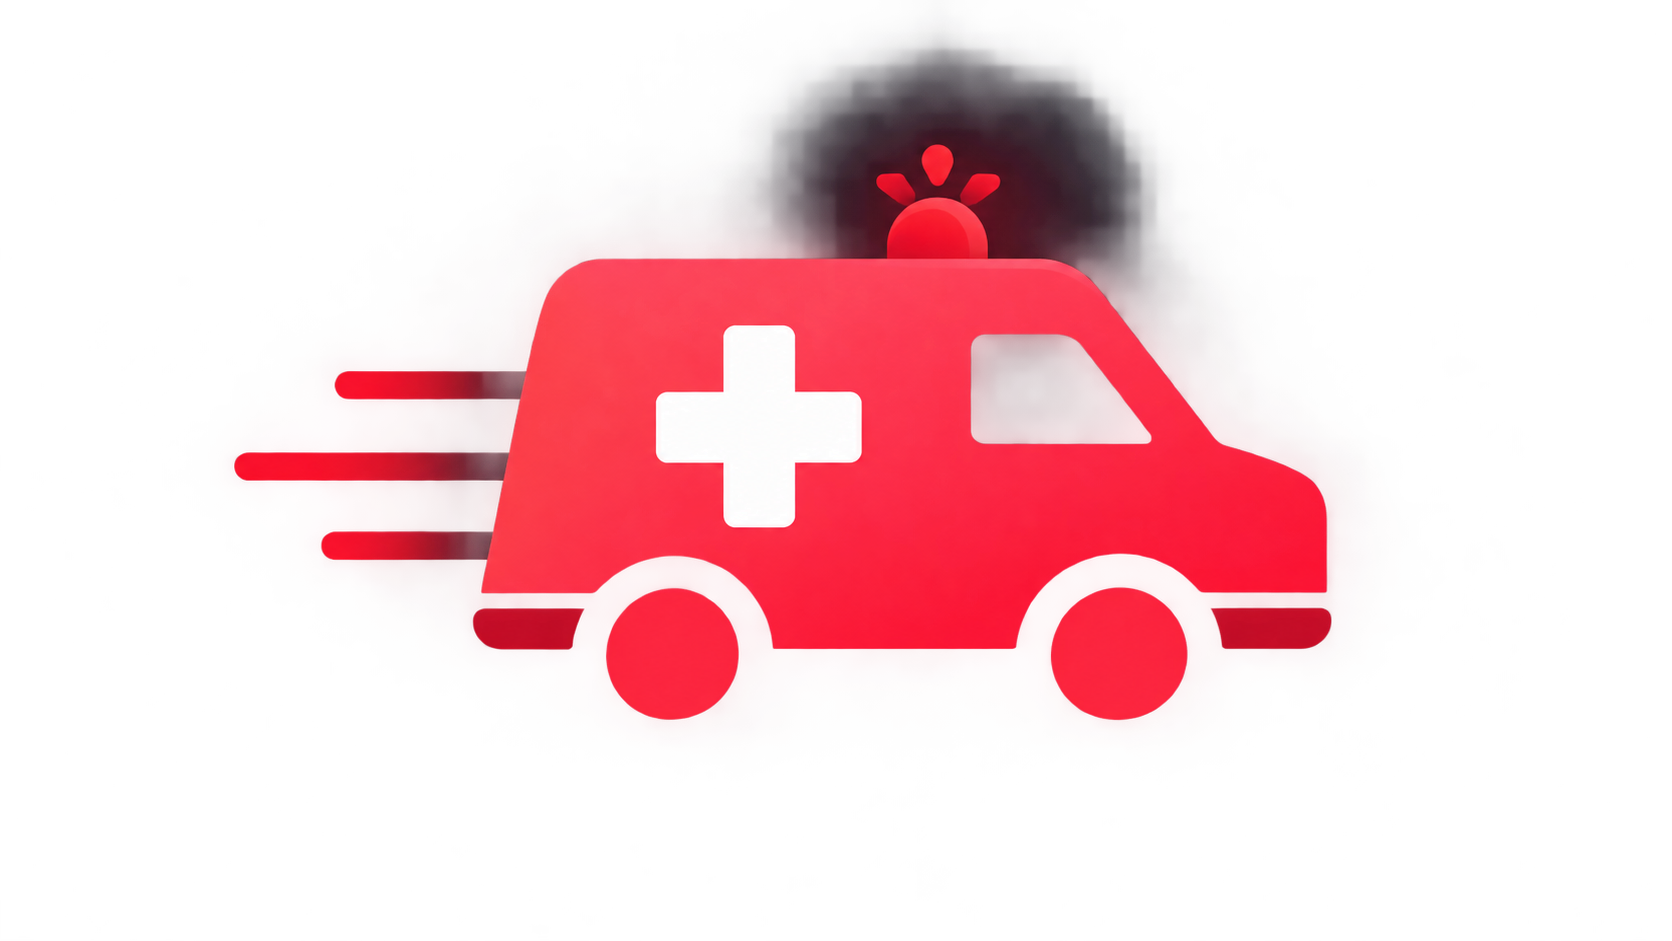
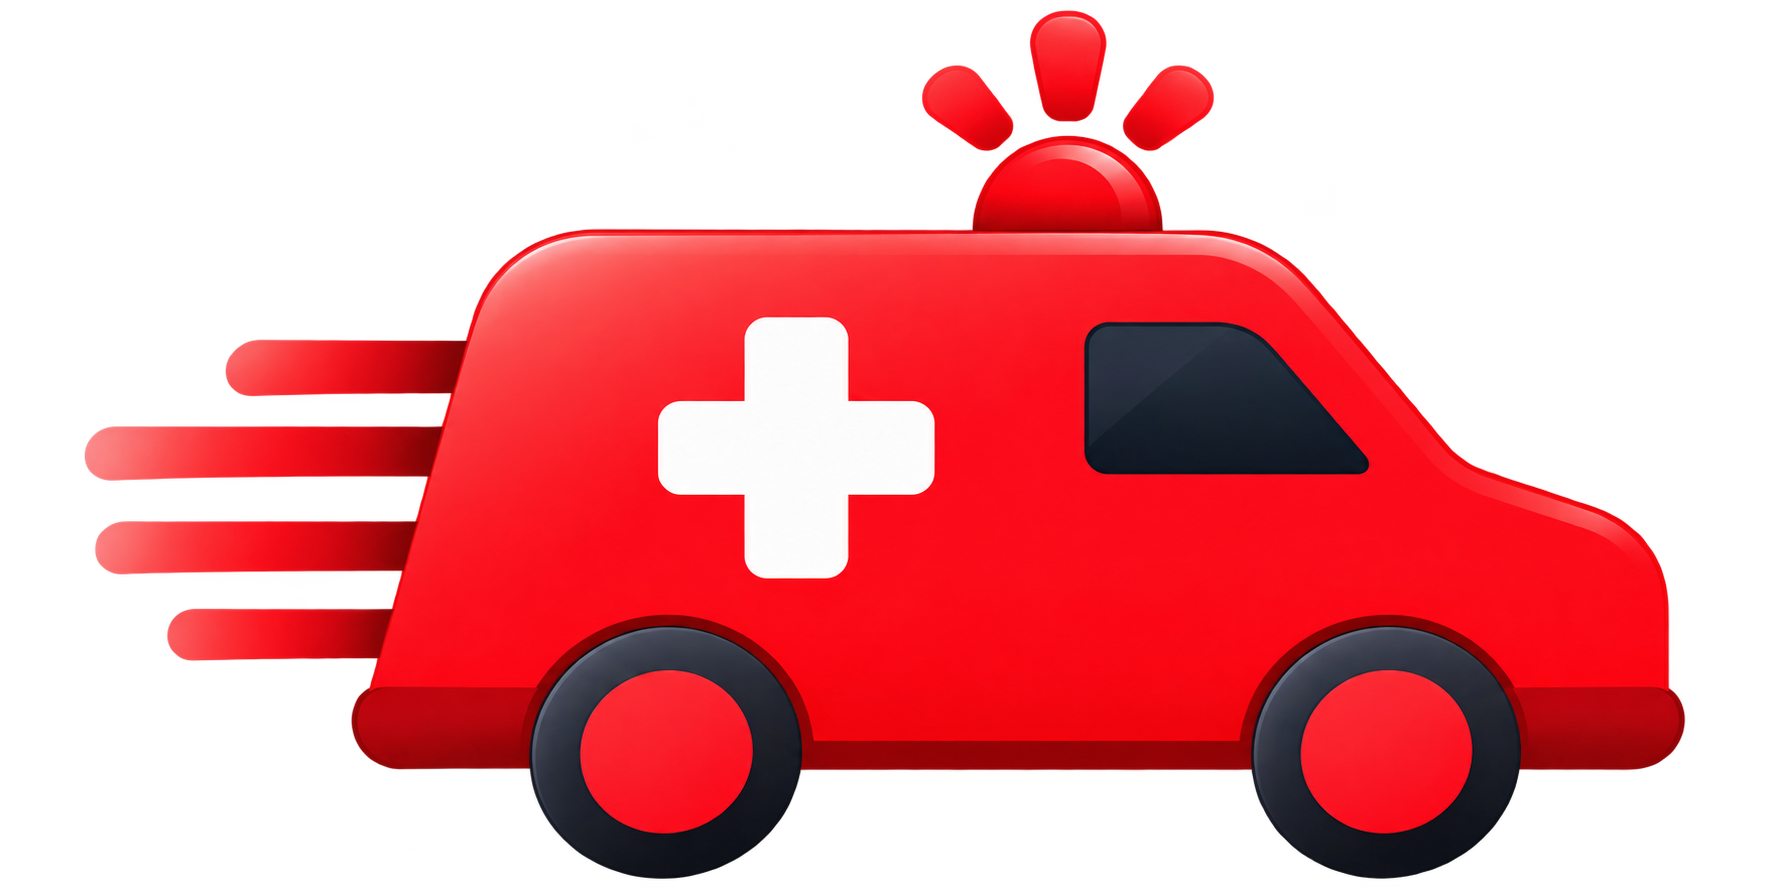
Fix light mode, translations, blood stepper and images

diff --git a/assets/js/ambulance.js b/assets/js/ambulance.js
@@ -66,9 +66,8 @@ townIn.addEventListener('change', () => {
     latEl.value = position[0];
     lngEl.value = position[1];
 
-    gpsLine.textContent = t('amb.gps_town', {
-        town: townIn.value,
-    });
+    // Replace {town} with the selected town name.
+    gpsLine.textContent = `Using ${townIn.value}`;
 });
 
 form.addEventListener('submit', (event) => {
@@ -94,14 +93,25 @@ form.addEventListener('submit', (event) => {
     window.location.href = 'results.php?' + query;
 });
 
-
 const units = document.getElementById('units-input');
 const minus = document.getElementById('units-minus');
 const plus = document.getElementById('units-plus');
+const bloodSelect = form.querySelector('[name="blood"]');
 
-if (units && minus && plus) {
+if (units && minus && plus && bloodSelect) {
 
     function updateUnits(value) {
+        // No blood type selected means zero units.
+        if (!bloodSelect.value) {
+            units.value = 0;
+            units.disabled = true;
+            minus.disabled = true;
+            plus.disabled = true;
+            return;
+        }
+
+        units.disabled = false;
+
         const amount = Number.parseInt(value, 10);
         const safeAmount = Number.isFinite(amount) ? amount : 0;
 
@@ -121,6 +131,14 @@ if (units && minus && plus) {
 
     units.addEventListener('change', function() {
         updateUnits(units.value);
+    });
+
+    bloodSelect.addEventListener('change', function() {
+        if (!bloodSelect.value) {
+            updateUnits(0);
+        } else {
+            updateUnits(units.value);
+        }
     });
 
     updateUnits(units.value);

diff --git a/assets/css/style.css b/assets/css/style.css
@@ -2782,7 +2782,10 @@ body.dark .incoming--alarm {
     border-color: var(--blue);
 }
 
-*=========================================================BEDLINK — AMBULANCE CREW PAGE Additional styling for the ambulance hospital finder Uses existing BedLink CSS variables=========================================================*/
+
+/*=========================================================BEDLINK — AMBULANCE CREW PAGE Additional styling for the ambulance hospital finder Uses existing BedLink CSS variables=========================================================*/
+
+
 /* Main ambulance container */
 
 .amb {
@@ -3636,4 +3639,35 @@ body.dark .amb .gps {
         max-width: 100%;
         width: 260px;
     }
+}
+
+
+/* ==========================================================
+   AMBULANCE LIGHT-MODE CONTRAST FIXES
+   Appended overrides only — existing styles remain unchanged.
+   ========================================================== */
+
+
+/* Light mode: use dark purple text on the selected ward card. */
+
+body:not(.dark) .amb .amb-ward-chips label:has(input:checked) {
+    color: #32105F;
+}
+
+
+/* Light mode: make the GPS status / No GPS message easier to read. */
+
+body:not(.dark) .amb .gps {
+    color: #14532D;
+}
+
+
+/* Dark mode: retain the existing light text colours and contrast. */
+
+body.dark .amb .amb-ward-chips label:has(input:checked) {
+    color: #FFFFFF;
+}
+
+body.dark .amb .gps {
+    color: #10DDB5;
 }

diff --git a/ambulance/index.php b/ambulance/index.php
@@ -1,4 +1,3 @@
-
 <?php
 require_once __DIR__ . '/../includes/auth.php';
 // requireRole(['ambulance_crew', 'community_driver']);
@@ -15,13 +14,13 @@ require __DIR__ . '/../includes/header.php';
     <section class="amb-hero">
 
         <div class="amb-hero__content">
-            <h1>Find the best hospital</h1>
-            <p>Choose what your patient needs.</p>
+            <h1><?= t('amb.title') ?></h1>
+            <p><?= t('amb.subtitle') ?></p>
         </div>
 
         <img
             src="/bedlink/assets/img/ambulance-hero.png"
-            alt="BedLink emergency ambulance"
+            alt="<?= t('amb.hero_alt') ?>"
             class="amb-hero-image"
         >
 
@@ -33,14 +32,16 @@ require __DIR__ . '/../includes/header.php';
         <?= t('amb.gps_wait') ?>
     </p>
 
-    <label id="town-box" hidden>
-        <?= t('amb.town') ?>
+    <label for="town">
+    <?= t('amb.choose_town') ?>
+</label>
 
         <input
             id="town"
             type="text"
             list="towns"
             autocomplete="off"
+            placeholder="<?= t('amb.town') ?>"
         >
 
         <datalist id="towns"></datalist>
@@ -60,12 +61,7 @@ require __DIR__ . '/../includes/header.php';
             <legend><?= t('amb.ward') ?></legend>
 
             <label>
-                <input
-                    type="radio"
-                    name="ward"
-                    value="emergency"
-                    checked
-                >
+                <input type="radio" name="ward" value="emergency" checked>
 
                 <svg viewBox="0 0 24 24" aria-hidden="true">
                     <path d="M3 20V8h3v8h15v4H3Z"/>
@@ -77,11 +73,7 @@ require __DIR__ . '/../includes/header.php';
 
 
             <label>
-                <input
-                    type="radio"
-                    name="ward"
-                    value="maternity"
-                >
+                <input type="radio" name="ward" value="maternity">
 
                 <svg viewBox="0 0 24 24" aria-hidden="true">
                     <circle cx="12" cy="5" r="3"/>
@@ -95,11 +87,7 @@ require __DIR__ . '/../includes/header.php';
 
 
             <label>
-                <input
-                    type="radio"
-                    name="ward"
-                    value="icu"
-                >
+                <input type="radio" name="ward" value="icu">
 
                 <svg viewBox="0 0 24 24" aria-hidden="true">
                     <rect x="2" y="3" width="20" height="18" rx="2"/>
@@ -111,11 +99,7 @@ require __DIR__ . '/../includes/header.php';
 
 
             <label>
-                <input
-                    type="radio"
-                    name="ward"
-                    value="children"
-                >
+                <input type="radio" name="ward" value="children">
 
                 <svg viewBox="0 0 24 24" aria-hidden="true">
                     <circle cx="8" cy="7" r="3"/>
@@ -130,17 +114,13 @@ require __DIR__ . '/../includes/header.php';
         </fieldset>
 
 
-        <!-- SERVICES NEEDED -->
+        <!-- SERVICES NEEDED (ICU removed: it is only a ward) -->
         <fieldset class="chips amb-service-chips">
 
             <legend><?= t('amb.needs') ?></legend>
 
             <label>
-                <input
-                    type="checkbox"
-                    name="svc"
-                    value="ct_scan"
-                >
+                <input type="checkbox" name="svc" value="ct_scan">
 
                 <svg viewBox="0 0 24 24" aria-hidden="true">
                     <circle cx="12" cy="12" r="9"/>
@@ -153,11 +133,7 @@ require __DIR__ . '/../includes/header.php';
 
 
             <label>
-                <input
-                    type="checkbox"
-                    name="svc"
-                    value="trauma_surgery"
-                >
+                <input type="checkbox" name="svc" value="trauma_surgery">
 
                 <svg viewBox="0 0 24 24" aria-hidden="true">
                     <path d="M12 22s8-4 8-11V5l-8-3-8 3v6c0 7 8 11 8 11Z"/>
@@ -169,11 +145,7 @@ require __DIR__ . '/../includes/header.php';
 
 
             <label>
-                <input
-                    type="checkbox"
-                    name="svc"
-                    value="theatre"
-                >
+                <input type="checkbox" name="svc" value="theatre">
 
                 <svg viewBox="0 0 24 24" aria-hidden="true">
                     <path d="M3 21h18M5 17h14M7 17v4M17 17v4"/>
@@ -182,22 +154,6 @@ require __DIR__ . '/../includes/header.php';
                 </svg>
 
                 <span><?= t('svc.theatre') ?></span>
-            </label>
-
-
-            <label>
-                <input
-                    type="checkbox"
-                    name="svc"
-                    value="icu"
-                >
-
-                <svg viewBox="0 0 24 24" aria-hidden="true">
-                    <rect x="2" y="3" width="20" height="16" rx="2"/>
-                    <path d="M4 11h4l2-4 3 8 2-4h5M8 22h8M12 19v3"/>
-                </svg>
-
-                <span><?= t('svc.icu') ?></span>
             </label>
 
         </fieldset>
@@ -212,9 +168,9 @@ require __DIR__ . '/../includes/header.php';
 
                 <!-- BLOOD TYPE -->
                 <label>
-                    <?= t('amb.bloodty') ?>
+                    <?= t('amb.blood_type') ?>
 
-                    <select name="blood">
+                    <select name="blood" id="blood-type">
 
                         <option value="">
                             <?= t('amb.no_blood') ?>
@@ -243,7 +199,7 @@ require __DIR__ . '/../includes/header.php';
                             type="button"
                             class="amb-quantity-btn"
                             id="units-minus"
-                            aria-label="Decrease blood units"
+                            aria-label="<?= t('amb.units_less') ?>"
                         >−</button>
 
 
@@ -263,7 +219,7 @@ require __DIR__ . '/../includes/header.php';
                             type="button"
                             class="amb-quantity-btn"
                             id="units-plus"
-                            aria-label="Increase blood units"
+                            aria-label="<?= t('amb.units_more') ?>"
                         >+</button>
 
                     </div>
@@ -294,3 +250,4 @@ require __DIR__ . '/../includes/header.php';
 
 <!-- EXISTING FOOTER -->
 <?php require __DIR__ . '/../includes/footer.php'; ?>
+

diff --git a/lang/en.php b/lang/en.php
@@ -59,15 +59,21 @@ return [
   'amb.ward'            => 'Ward needed',
   'amb.needs'           => 'Needs',
   'amb.blood'           => 'Blood needed',
-  'amb.bloodty'         => 'Blood type',
+  'amb.blood_type'      => 'Blood type',
   'amb.units'           => 'Units of blood',
   'amb.town'            => 'Town or landmark',
   'amb.need_location'   => 'We need your location to find a hospital.',
   'amb.gps_wait'        => 'Finding your location…',
   'amb.gps_ok'          => 'GPS ± {m} m',
   'amb.gps_fail'        => 'No GPS. Type your town or a landmark:',
-  'amb.gps_town'        => 'Using {town}',
-  'amb.find'            => 'Find best hospital',
+  'amb.no_gps'        => 'Using {town}',
+  'amb.choose_town'     => 'Choose your town or landmark',
+  'amb.title'           => 'Find best hospital',
+  'amb.subtitle'        => 'Choose what your patient needs',
+  'amb.find'           => 'Find best hospital',
+  'amb.hero_alt'        => 'Bedlink emergency ambulance',
+  'amb.units_less'        => 'Decrease blood units',
+  'amb.units_more'        => 'Increase blood units',
 
   'ward.emergency'      => 'Emergency',
   'ward.maternity'      => 'Maternity',
